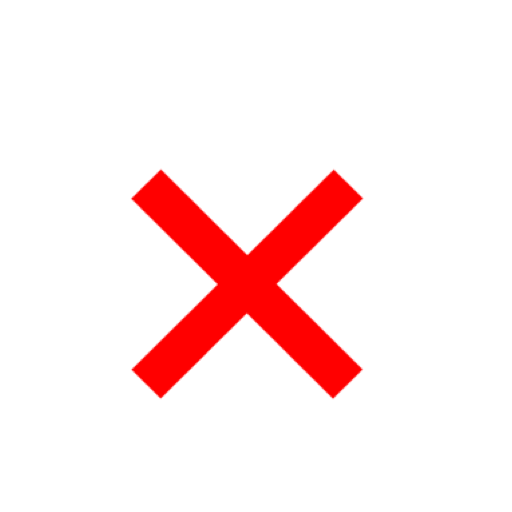
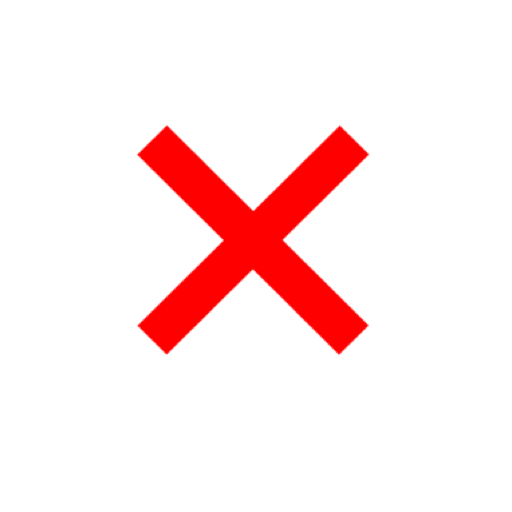
Improve css and buttons

Changed region(s): [[0.25, 0.25, 0.7188, 0.7812]]

diff --git a/src/components/CardList/index.js b/src/components/CardList/index.js
@@ -88,9 +88,9 @@ class CardList extends Component {
 
   render() {
     const checkBox = (urgentOrImportant, boolean, card) => {
-      let defaultChecked = "";
+      let checked = "";
       if (boolean) {
-        defaultChecked = "defaultChecked";
+        checked = "checked";
       }
       return (
         <div>
@@ -98,7 +98,7 @@ class CardList extends Component {
             type="checkbox"
             name={urgentOrImportant}
             className="switch is-success"
-            defaultChecked={defaultChecked}
+            checked={checked}
             value={card}
             onClick={() => this.checkReverse(card, urgentOrImportant)}
           /> {urgentOrImportant} </label>
@@ -128,7 +128,7 @@ class CardList extends Component {
                 {checkBox("urgent", card.urgent === true, card)}
                 {card.status !== "To do" ? (
                   <button
-                    className="button is-small"
+                    className="button is-small is-rounded"
                     value={card}
                     onClick={() => this.previousStage(card)}
                   >
@@ -137,7 +137,7 @@ class CardList extends Component {
                 ) : null}
                 {card.status !== "Done" ? (
                   <button
-                    className="button is-small"
+                    className="button is-small is-rounded"
                     value={card}
                     onClick={() => this.nextStage(card)}
                   >
@@ -146,7 +146,7 @@ class CardList extends Component {
                 ) : null}
 
               <Popup
-                trigger={<button className="button is-small"><img src={"./threelines.png"} width='20' height='20' /></button>}
+                trigger={<button className="button is-small is-rounded"><img src={"./threelines.png"} width='20' height='20' /></button>}
                 modal
               >
                 {close => (
@@ -155,10 +155,10 @@ class CardList extends Component {
               </Popup>
               <Popup
                 trigger={<button
-
+                  className ="button is-small is-rounded"
                   value={card}
-                  padding-top='5'
-                ><img src={"./x.png"} width='20' height='20' /></button>}
+                  margin-top="-4px"
+                ><img src={"./x.png"} width='20' height='20'/></button>}
                 modal
               >
 

diff --git a/src/index.css b/src/index.css
@@ -1,6 +1,6 @@
 * {
   font-size: 10px;
-  color: #black;
+  color: rgb(0, 0, 0);
   height: auto;
 }
 
@@ -28,22 +28,22 @@ h4 {
 }
 
 #green {
-  background-color: rgba(47, 219, 31, 0.842);
+  background-color: #88B04B;
   border-radius: 3px
 }
 
 #blue {
-  background-color: rgba(0, 162, 255, 0.719);
+  background-color: #92A8D1;
   border-radius: 3px
 }
 
 #yellow {
-  background-color: rgba(255, 217, 0, 0.719);
+  background-color: #F6D155;
   border-radius: 3px
 }
 
 #red {
-  background-color: rgba(211, 17, 17, 0.548);
+  background-color: #FF6F61;
   border-radius: 3px
 
 }

diff --git a/src/components/Home/Home.css b/src/components/Home/Home.css
@@ -1,5 +1,6 @@
 body {
   padding: 10px;
+  height: 720px;
 }
 
 h2 {
@@ -17,13 +18,12 @@ h2 {
 }
 
 .outerCardsList {
-  background-color: lightgrey;
   border-radius: 6px;
   max-height: 650px;
 }
 
 .innerCardsList {
-  background-color: darkgrey;
+  background-color: rgba(149, 222, 227, 0.76)  ;
   border-radius: 6px;
   padding-top: 15px;
   max-height: 600px;
@@ -35,5 +35,5 @@ h2 {
 
 .card {
   margin: 10px;
-  box-shadow: 3px 6px #888888;
+  box-shadow: 3px 3px rgba(94, 141, 145, 0.76);
 }
